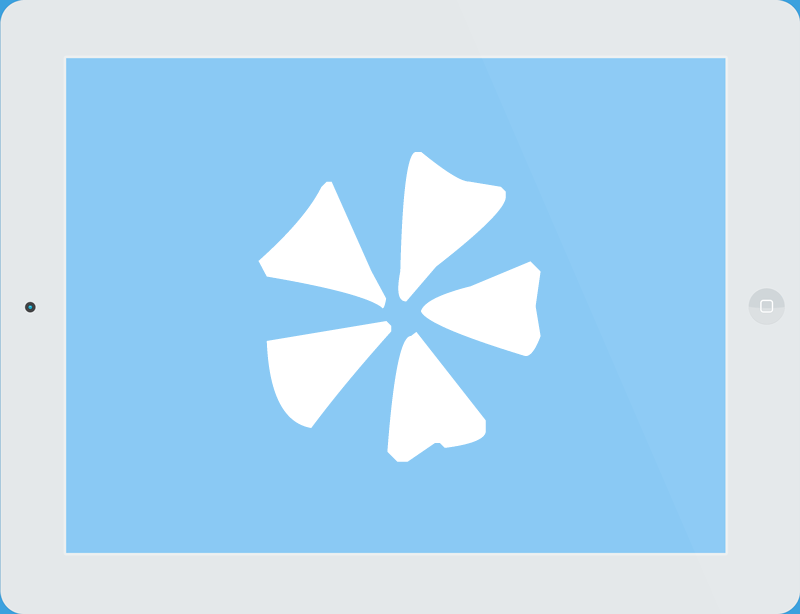
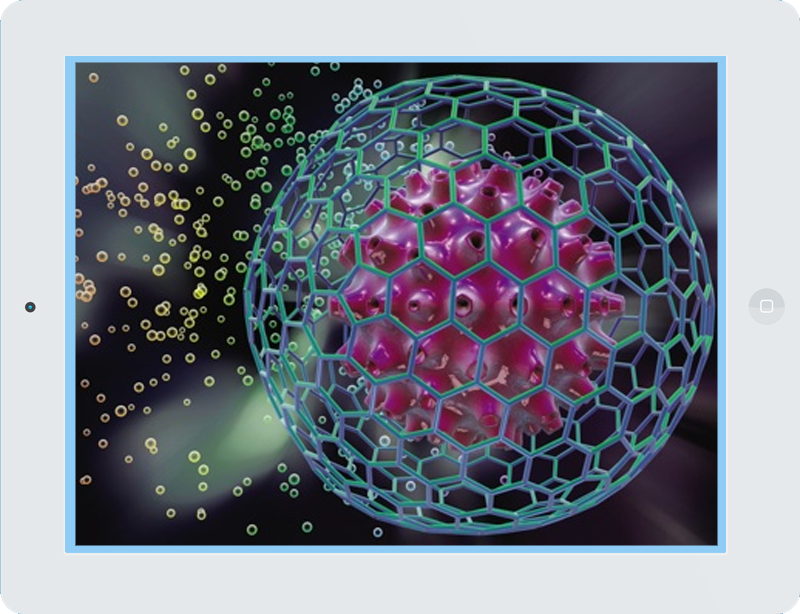
Ajustes

diff --git a/index2.html b/index2.html
@@ -4,7 +4,7 @@
 		<meta charset="UTF-8" />
 		<meta http-equiv="X-UA-Compatible" content="IE=edge,chrome=1"> 
 		<meta name="viewport" content="width=device-width, initial-scale=1.0"> 
-		<title>Células Madre</title>
+		<title>Blueprint: On Scroll Effect Layout</title>
 		<meta name="description" content="Blueprint: On Scroll Effect Layout" />
 		<meta name="keywords" content="on scroll, effect, slide in, layout, template, transition, javascript" />
 		<meta name="author" content="Codrops" />
@@ -12,43 +12,44 @@
 		<link rel="stylesheet" type="text/css" href="css/demo.css" />
 		<link rel="stylesheet" type="text/css" href="css/component.css" />
 		<script src="js/modernizr.custom.js"></script>
-	</head>
+	    <style type="text/css">
+<!--
+.Estilo2 {font-size: 24px}
+.Estilo3 {font-size: larger}
+-->
+        </style>
+</head>
 	<body>
 		<div class="container">
 			<header class="clearfix">
-				<span>Bioinformatica</span>
-				<h1>CÉLULAS MADRE</h1>
+			  <h2>CÉLULAS MADRE            
 				<nav>
-					<a href="http://tympanus.net/Blueprints/ResponsiveIconGrid/" class="bp-icon bp-icon-prev" data-info="previous Blueprint"><span>Previous Blueprint</span></a>
-					<a href="" class="bp-icon bp-icon-next" data-info="next Blueprint"><span>Next Blueprint</span></a>
-					<a href="http://tympanus.net/codrops/?p=15962" class="bp-icon bp-icon-drop" data-info="back to the Codrops article"><span>back to the Codrops article</span></a>
-					<a href="http://tympanus.net/codrops/category/blueprints/" class="bp-icon bp-icon-archive" data-info="Blueprints archive"><span>Go to the archive</span></a>
-				</nav>
-			</header>	
+				  <a href="http://tympanus.net/Blueprints/ResponsiveIconGrid/" class="bp-icon bp-icon-prev" data-info="previous Blueprint"><span>Previous Blueprint</span></a>
+				  <a href="" class="bp-icon bp-icon-next" data-info="next Blueprint"><span>Next Blueprint</span></a>
+				  <a href="http://tympanus.net/codrops/?p=15962" class="bp-icon bp-icon-drop" data-info="back to the Codrops article"><span>back to the Codrops article</span></a>
+				  <a href="http://tympanus.net/codrops/category/blueprints/" class="bp-icon bp-icon-archive" data-info="Blueprints archive"><span>Go to the archive</span></a>
+			    </nav>
+		      </h2>
+		  </header>	
 			<div id="cbp-so-scroller" class="cbp-so-scroller">
-				<section class="cbp-so-section" data-slide="#2ecc71">
+				<section class="cbp-so-section">
 					<article class="cbp-so-side cbp-so-side-left">
 						<h2 class="Estilo2">¿Que son las células madre?</h2>
 						<p>Las&nbsp;<strong>células madre</strong>&nbsp;son&nbsp;<a href="http://es.wikipedia.org/wiki/C%C3%A9lula" title="Célula">células</a>&nbsp;que se encuentran en todos los organismos multicelulares&nbsp;y que tienen la capacidad de dividirse  (a través de la&nbsp;<a href="http://es.wikipedia.org/wiki/Mitosis" title="Mitosis">mitosis</a>) y diferenciarse en diversos tipos de células especializadas  y de&nbsp;<a href="http://es.wikipedia.org/w/index.php?title=Autorrenovaci%C3%B3n&action=edit&redlink=1" title="Autorrenovación (aún no redactado)">autorrenovarse</a>&nbsp;para producir más células madre. </p>
 					</article>
-					<div class="cbp-so-side cbp-so-side-right video-tab-right">
-						<div class="back-video">
-							<iframe width="100%" height="400" src="http://www.youtube.com/embed/LHgllDAzZLQ?rel=0" frameborder="0" allowfullscreen></iframe>
-						</div>
-					</div>
-					
+					<figure class="cbp-so-side cbp-so-side-right">
+						<img src="images/1.png" alt="img01">					</figure>
 				</section>
-				<section class="cbp-so-section" data-slide="#3498db">
+				<section class="cbp-so-section">
 					<figure class="cbp-so-side cbp-so-side-left">
-						<img src="images/2.png" alt="img01">
-					</figure>
+						<img src="images/2.png" alt="img01">					</figure>
 					<article class="cbp-so-side cbp-so-side-right">
 						<h2>Un poco de Historia... </h2>
-						<p>La historia de la  investigación con células madre señalando los hechos más importantes.<br>
-						Mira <a href="3">aquí</a> los hallazgos más importantes en 40 años</p>
+						<p>A  mediados de la década de 1980, los científicos comprendieron que las células  eran los elementos fundamentales y básicos que mantenían el buen funcionamiento  del organismo, y que dichas células se encargaban de generar otras células. La historia de la  investigación con células madre señalando los hechos más importantes.<br>
+La siguiente línea de  tiempo muestra los 40 hallazgos más importantes relacionados con la evolución  de la investigación de las células madre.</p>
 					</article>
 				</section>
-				<section class="cbp-so-section" data-slide="#9b59b6">
+				<section class="cbp-so-section">
 					<article class="cbp-so-side cbp-so-side-left">
 						<h2>Tipos de céluas madre. </h2>
 						<p>las células madre pueden dividirse en cuatro tipos:</p>
@@ -68,21 +69,18 @@
 					  </ul>
 					</article>
 					<figure class="cbp-so-side cbp-so-side-right">
-						<img src="images/3.png" alt="img01">
-					</figure>
+						<img src="images/3.png" alt="img01">					</figure>
 				</section>
-				<section class="cbp-so-section" data-slide="#34495e">
-					<div class="cbp-so-side cbp-so-side-left video-tab-left">
-						<div class="back-video">
-							<iframe width="100%" height="400" src="http://www.youtube.com/embed/cb7L-i0fhdc?rel=0" frameborder="0" allowfullscreen></iframe>
-						</div>
-					</div>
+				<section class="cbp-so-section">
+					<figure class="cbp-so-side cbp-so-side-left">
+						<img src="images/4.png" alt="img01">
+					</figure>
 					<article class="cbp-so-side cbp-so-side-right">
 						<h2>Aplicaciones clínicas </h2>
 						<p>Sesame snaps sweet wafer danish. Chupa chups carrot cake icing donut halvah bonbon. Chocolate cake candy marshmallow pudding dessert marzipan jujubes sugar plum.</p>
 					</article>
 				</section>
-				<section class="cbp-so-section" data-slide="#e67e22">
+				<section class="cbp-so-section">
 					<article class="cbp-so-side cbp-so-side-left">
 						<h2>Reproducción</h2>
 						<p>Chupa chups pudding lollipop gummi bears gummies cupcake pie. Cookie cotton candy caramels. Oat cake dessert applicake. Sweet roll tiramisu sweet roll sweet roll.</p>
@@ -91,7 +89,16 @@
 						<img src="images/5.png" alt="img01">
 					</figure>
 				</section>
-			</div>
+				<section class="cbp-so-section">
+					<figure class="cbp-so-side cbp-so-side-left">
+						<img src="images/6.png" alt="img01">
+					</figure>
+					<article class="cbp-so-side cbp-so-side-right">
+						<h2>¿???</h2>
+						<p>Cake cotton candy lollipop. Cake croissant cheesecake candy sugar plum icing apple pie wafer. Pie sugar plum tiramisu tiramisu pie fruitcake candy icing. Candy icing gummies gummies cheesecake brownie lemon drops chocolate gingerbread.</p>
+					</article>
+				</section>
+		  </div>
 		</div>
 		<script src="js/classie.js"></script>
 		<script src="js/cbpScroller.js"></script>

diff --git a/css/demo.css b/css/demo.css
@@ -12,7 +12,7 @@
 } /* Made with http://icomoon.io/ */
 
 *, *:after, *:before { -webkit-box-sizing: border-box; -moz-box-sizing: border-box; box-sizing: border-box; }
-body, html { font-size: 100%; padding: 0; margin: 0;}
+body, html { font-size: 100%; padding: 0; margin: 0; transition:all .5s;}
 
 /* Clearfix hack by Nicolas Gallagher: http://nicolasgallagher.com/micro-clearfix-hack/ */
 .clearfix:before, .clearfix:after { content: " "; display: table; }
@@ -27,10 +27,13 @@ body {
 a {
 	color: #f0f0f0;
 	text-decoration: none;
+	text-shadow: 1px 1px 2px #4D4D4D;
+	transition: all .5s;
 }
 
 a:hover {
-	color: #000;
+	color: #4D4D4D;
+	text-shadow: 1px 1px 2px #f0f0f0;
 }
 
 .container > header {
@@ -162,6 +165,29 @@ a:hover {
 .bp-icon-prev:after {
 	content: "\e004";
 }
+
+.video-tab-right{
+	background: #e5e9eb;
+	border-radius: 20px 0 0 20px;
+	padding: 50px 0px 50px 60px !important;
+}
+
+.video-tab-left{
+	background: #e5e9eb;
+	border-radius: 0px 20px 20px 0px;
+	padding: 50px 60px 50px 0px !important;
+}
+
+.video-tab-right .back-video, .video-tab-left .back-video{
+	background: #8ecbf5;
+	padding: 10px;
+}
+
+.video-tab iframe{
+	margin-left: 7px;
+}
+
+
 
 @media screen and (max-width: 55em) {
 

diff --git a/js/cbpScroller.js b/js/cbpScroller.js
@@ -121,6 +121,7 @@
 			this.sections.forEach( function( el, i ) {
 				if( inViewport( el, self.options.viewportFactor ) ) {
 					classie.add( el, 'cbp-so-animate' );
+					document.body.style.backgroundColor = el.getAttribute('data-slide');
 				}
 				else {
 					// this add class init if it doesn't have it. This will ensure that the items initially in the viewport will also animate on scroll

diff --git a/css/component.css b/css/component.css
@@ -35,7 +35,7 @@
 	width: 50%;
 	float: left;
 	margin: 0;
-	padding: 3em 4%;
+	padding: 0 4%;
 	overflow: hidden;
 	min-height: 12em;
 	-webkit-transition: -webkit-transform 0.5s, opacity 0.5s;
